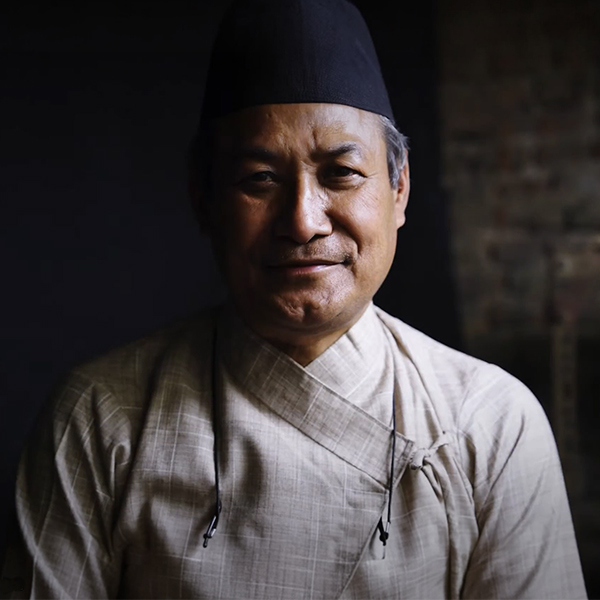
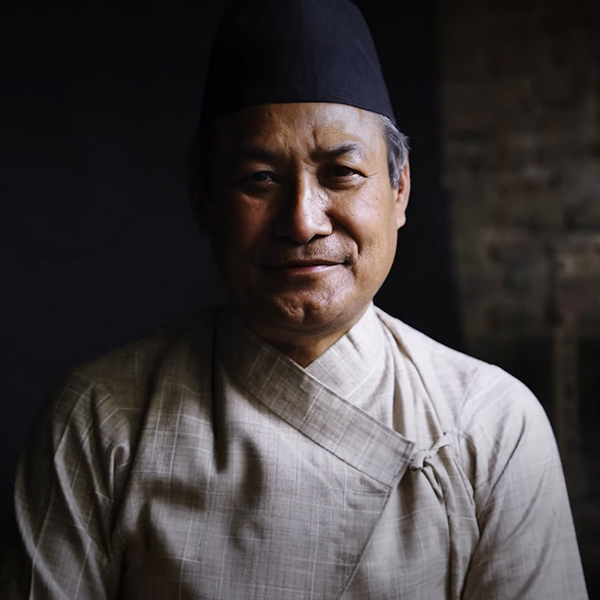
Updates

diff --git a/index1.html b/index1.html
@@ -91,7 +91,7 @@
       <!-- Section Title -->
       <div class="container section-title" data-aos="fade-up">
         <h2>About</h2>
-        <p>Magnam dolores commodi suscipit. Necessitatibus eius consequatur ex aliquid fuga eum quidem. Sit sint consectetur velit. Quisquam quos quisquam cupiditate. Et nemo qui impedit suscipit alias ea. Quia fugiat sit in iste officiis commodi quidem hic quas.</p>
+        <p>I'm Babu Raja Tamrakar a skilled metal craftsman and local resident of Patan, specializing in handcrafted copper and brass products. With years of expertise in traditional metal artistry. I make customized products designs tailored to your specific needs, ensuring high-quality craftsmanship, unique detailing, and durable finishes for both decorative and functional purposes. </p>
       </div><!-- End Section Title -->
 
       <div class="container" data-aos="fade-up" data-aos-delay="100">
@@ -102,10 +102,10 @@
           </div>
           <div class="col-lg-8 content">
             <h2>Designer &amp; Coppersmith.</h2>
-            <p class="fst-italic py-3">
+            <!-- <p class="fst-italic py-3">
               Lorem ipsum dolor sit amet, consectetur adipiscing elit, sed do eiusmod tempor incididunt ut labore et dolore
               magna aliqua.
-            </p>
+            </p> -->
             <div class="row">
               <div class="col-lg-6">
                 <ul>
@@ -122,8 +122,7 @@
               </div>
             </div>
             <p class="py-3">
-              Officiis eligendi itaque labore et dolorum mollitia officiis optio vero. Quisquam sunt adipisci omnis et ut. Nulla accusantium dolor incidunt officia tempore. Et eius omnis.
-              Cupiditate ut dicta maxime officiis quidem quia. Sed et consectetur qui quia repellendus itaque neque.
+              In recent years, I have collaborated with numerous brands and companies, delivering premium handcrafted copper and brass products customized to meet their unique design needs and quality standards. My work focuses on traditional craftsmanship, precision detailing, and durable metal artistry suitable for corporate, decorative, and commercial purposes.
             </p>
           </div>
         </div>
@@ -422,13 +421,12 @@
     </section><!-- /Services Section -->
 
     <!-- Testimonials Section -->
-    <section id="testimonials" class="testimonials section light-background">
+    <!-- <section id="testimonials" class="testimonials section light-background">
 
-      <!-- Section Title -->
       <div class="container section-title" data-aos="fade-up">
         <h2>Testimonials</h2>
         <p>Necessitatibus eius consequatur ex aliquid fuga eum quidem sint consectetur velit</p>
-      </div><!-- End Section Title -->
+      </div>
 
       <div class="container" data-aos="fade-up" data-aos-delay="100">
 
@@ -471,59 +469,7 @@
                 <h3>Saul Goodman</h3>
                 <h4>Ceo &amp; Founder</h4>
               </div>
-            </div><!-- End testimonial item -->
-
-            <div class="swiper-slide">
-              <div class="testimonial-item">
-                <p>
-                  <i class="bi bi-quote quote-icon-left"></i>
-                  <span>Export tempor illum tamen malis malis eram quae irure esse labore quem cillum quid malis quorum velit fore eram velit sunt aliqua noster fugiat irure amet legam anim culpa.</span>
-                  <i class="bi bi-quote quote-icon-right"></i>
-                </p>
-                <img src="assets/img/testimonials/testimonials-2.jpg" class="testimonial-img" alt="">
-                <h3>Sara Wilsson</h3>
-                <h4>Designer</h4>
-              </div>
-            </div><!-- End testimonial item -->
-
-            <div class="swiper-slide">
-              <div class="testimonial-item">
-                <p>
-                  <i class="bi bi-quote quote-icon-left"></i>
-                  <span>Enim nisi quem export duis labore cillum quae magna enim sint quorum nulla quem veniam duis minim tempor labore quem eram duis noster aute amet eram fore quis sint minim.</span>
-                  <i class="bi bi-quote quote-icon-right"></i>
-                </p>
-                <img src="assets/img/testimonials/testimonials-3.jpg" class="testimonial-img" alt="">
-                <h3>Jena Karlis</h3>
-                <h4>Store Owner</h4>
-              </div>
-            </div><!-- End testimonial item -->
-
-            <div class="swiper-slide">
-              <div class="testimonial-item">
-                <p>
-                  <i class="bi bi-quote quote-icon-left"></i>
-                  <span>Fugiat enim eram quae cillum dolore dolor amet nulla culpa multos export minim fugiat dolor enim duis veniam ipsum anim magna sunt elit fore quem dolore labore illum veniam.</span>
-                  <i class="bi bi-quote quote-icon-right"></i>
-                </p>
-                <img src="assets/img/testimonials/testimonials-4.jpg" class="testimonial-img" alt="">
-                <h3>Matt Brandon</h3>
-                <h4>Freelancer</h4>
-              </div>
-            </div><!-- End testimonial item -->
-
-            <div class="swiper-slide">
-              <div class="testimonial-item">
-                <p>
-                  <i class="bi bi-quote quote-icon-left"></i>
-                  <span>Quis quorum aliqua sint quem legam fore sunt eram irure aliqua veniam tempor noster veniam sunt culpa nulla illum cillum fugiat legam esse veniam culpa fore nisi cillum quid.</span>
-                  <i class="bi bi-quote quote-icon-right"></i>
-                </p>
-                <img src="assets/img/testimonials/testimonials-5.jpg" class="testimonial-img" alt="">
-                <h3>John Larson</h3>
-                <h4>Entrepreneur</h4>
-              </div>
-            </div><!-- End testimonial item -->
+            </div>
 
           </div>
           <div class="swiper-pagination"></div>
@@ -531,7 +477,8 @@
 
       </div>
 
-    </section><!-- /Testimonials Section -->
+    </section> -->
+    <!-- /Testimonials Section -->
 
     <!-- Contact Section -->
     <section id="contact" class="contact section">

diff --git a/portfolio-details.html b/portfolio-details.html
@@ -1,15 +1,12 @@
-<!DOCTYPE html>
-<html lang="en">
-
 <head>
   <meta charset="utf-8">
   <meta content="width=device-width, initial-scale=1.0" name="viewport">
-  <title>Portfolio Details - iPortfolio Bootstrap Template</title>
+  <title>Babu Raja Tamrakar</title>
   <meta content="" name="description">
-  <meta content="" name="keywords">
+  <meta name="keywords" content="babumetalcrafts, baburajatamrakar, Babu Metal Crafts, Babu Raja Tamrakar, Babu Metal Crafts Patan, Coppersmith from patan, Coppersmith">
 
   <!-- Favicons -->
-  <link href="assets/img/favicon.png" rel="icon">
+  <link href="assets/img/b-logo.png" rel="icon">
   <link href="assets/img/apple-touch-icon.png" rel="apple-touch-icon">
 
   <!-- Fonts -->
@@ -36,53 +33,35 @@
   ======================================================== -->
 </head>
 
-<body class="portfolio-details-page">
+<body class="index-page">
 
   <header id="header" class="header dark-background d-flex flex-column">
     <i class="header-toggle d-xl-none bi bi-list"></i>
 
     <div class="profile-img">
-      <img src="assets/img/my-profile-img.jpg" alt="" class="img-fluid rounded-circle">
+      <img src="assets/img/profile img.jpg" alt="" class="img-fluid rounded-circle">
     </div>
 
-    <a href="index.html" class="logo d-flex align-items-center justify-content-center">
+    <a href="./index" class="logo d-flex align-items-center justify-content-center">
       <!-- Uncomment the line below if you also wish to use an image logo -->
       <!-- <img src="assets/img/logo.png" alt=""> -->
-      <h1 class="sitename">Alex Smith</h1>
+      <h1 class="sitename">Babu Raja Tamrakar</h1>
     </a>
 
     <div class="social-links text-center">
-      <a href="#" class="twitter"><i class="bi bi-twitter-x"></i></a>
-      <a href="#" class="facebook"><i class="bi bi-facebook"></i></a>
-      <a href="#" class="instagram"><i class="bi bi-instagram"></i></a>
-      <a href="#" class="google-plus"><i class="bi bi-skype"></i></a>
+      <a href="https://www.facebook.com/profile.php?id=61587311785832" class="facebook"><i class="bi bi-facebook"></i></a>
+      <a href="https://www.instagram.com/babu_metal_crafts" class="instagram"><i class="bi bi-instagram"></i></a>
+      <a href="https://www.tiktok.com/@babu.metal.crafts" class="tiktok"><i class="bi bi-tiktok"></i></a>
       <a href="#" class="linkedin"><i class="bi bi-linkedin"></i></a>
+      <a href="#" class="whatsapp"><i class="bi bi-whatsapp"></i></a>
     </div>
 
     <nav id="navmenu" class="navmenu">
       <ul>
-        <li><a href="#hero"><i class="bi bi-house navicon"></i>Home</a></li>
+        <li><a href="#hero" class="active"><i class="bi bi-house navicon"></i>Home</a></li>
         <li><a href="#about"><i class="bi bi-person navicon"></i> About</a></li>
-        <li><a href="#resume"><i class="bi bi-file-earmark-text navicon"></i> Resume</a></li>
         <li><a href="#portfolio"><i class="bi bi-images navicon"></i> Portfolio</a></li>
         <li><a href="#services"><i class="bi bi-hdd-stack navicon"></i> Services</a></li>
-        <li class="dropdown"><a href="#"><i class="bi bi-menu-button navicon"></i> <span>Dropdown</span> <i class="bi bi-chevron-down toggle-dropdown"></i></a>
-          <ul>
-            <li><a href="#">Dropdown 1</a></li>
-            <li class="dropdown"><a href="#"><span>Deep Dropdown</span> <i class="bi bi-chevron-down toggle-dropdown"></i></a>
-              <ul>
-                <li><a href="#">Deep Dropdown 1</a></li>
-                <li><a href="#">Deep Dropdown 2</a></li>
-                <li><a href="#">Deep Dropdown 3</a></li>
-                <li><a href="#">Deep Dropdown 4</a></li>
-                <li><a href="#">Deep Dropdown 5</a></li>
-              </ul>
-            </li>
-            <li><a href="#">Dropdown 2</a></li>
-            <li><a href="#">Dropdown 3</a></li>
-            <li><a href="#">Dropdown 4</a></li>
-          </ul>
-        </li>
         <li><a href="#contact"><i class="bi bi-envelope navicon"></i> Contact</a></li>
       </ul>
     </nav>
@@ -183,14 +162,16 @@
 
     <div class="container">
       <div class="copyright text-center ">
-        <p>© <span>Copyright</span> <strong class="px-1 sitename">iPortfolio</strong> <span>All Rights Reserved</span></p>
+        <p>© <span>Copyright</span>
+          <script> document.write(new Date().getFullYear()); </script>  
+        <strong class="px-1 sitename">Babu Raja Tamrakar.</strong> <span>| All Rights Reserved</span></p>
       </div>
       <div class="credits">
         <!-- All the links in the footer should remain intact. -->
         <!-- You can delete the links only if you've purchased the pro version. -->
         <!-- Licensing information: https://bootstrapmade.com/license/ -->
         <!-- Purchase the pro version with working PHP/AJAX contact form: [buy-url] -->
-        Designed by <a href="https://bootstrapmade.com/">BootstrapMade</a> Distributed by <a href="https://themewagon.com">ThemeWagon</a>
+        Designed by <a href="https://rujaltamrakar.com.np" target="_blank">Rujal Tamrakar</a> 
       </div>
     </div>
 

diff --git a/service-details.html b/service-details.html
@@ -1,15 +1,12 @@
-<!DOCTYPE html>
-<html lang="en">
-
 <head>
   <meta charset="utf-8">
   <meta content="width=device-width, initial-scale=1.0" name="viewport">
-  <title>Service Details - iPortfolio Bootstrap Template</title>
+  <title>Babu Raja Tamrakar</title>
   <meta content="" name="description">
-  <meta content="" name="keywords">
+  <meta name="keywords" content="babumetalcrafts, baburajatamrakar, Babu Metal Crafts, Babu Raja Tamrakar, Babu Metal Crafts Patan, Coppersmith from patan, Coppersmith">
 
   <!-- Favicons -->
-  <link href="assets/img/favicon.png" rel="icon">
+  <link href="assets/img/b-logo.png" rel="icon">
   <link href="assets/img/apple-touch-icon.png" rel="apple-touch-icon">
 
   <!-- Fonts -->
@@ -36,53 +33,35 @@
   ======================================================== -->
 </head>
 
-<body class="service-details-page">
+<body class="index-page">
 
   <header id="header" class="header dark-background d-flex flex-column">
     <i class="header-toggle d-xl-none bi bi-list"></i>
 
     <div class="profile-img">
-      <img src="assets/img/my-profile-img.jpg" alt="" class="img-fluid rounded-circle">
+      <img src="assets/img/profile img.jpg" alt="" class="img-fluid rounded-circle">
     </div>
 
-    <a href="index.html" class="logo d-flex align-items-center justify-content-center">
+    <a href="./index" class="logo d-flex align-items-center justify-content-center">
       <!-- Uncomment the line below if you also wish to use an image logo -->
       <!-- <img src="assets/img/logo.png" alt=""> -->
-      <h1 class="sitename">Alex Smith</h1>
+      <h1 class="sitename">Babu Raja Tamrakar</h1>
     </a>
 
     <div class="social-links text-center">
-      <a href="#" class="twitter"><i class="bi bi-twitter-x"></i></a>
-      <a href="#" class="facebook"><i class="bi bi-facebook"></i></a>
-      <a href="#" class="instagram"><i class="bi bi-instagram"></i></a>
-      <a href="#" class="google-plus"><i class="bi bi-skype"></i></a>
+      <a href="https://www.facebook.com/profile.php?id=61587311785832" class="facebook"><i class="bi bi-facebook"></i></a>
+      <a href="https://www.instagram.com/babu_metal_crafts" class="instagram"><i class="bi bi-instagram"></i></a>
+      <a href="https://www.tiktok.com/@babu.metal.crafts" class="tiktok"><i class="bi bi-tiktok"></i></a>
       <a href="#" class="linkedin"><i class="bi bi-linkedin"></i></a>
+      <a href="#" class="whatsapp"><i class="bi bi-whatsapp"></i></a>
     </div>
 
     <nav id="navmenu" class="navmenu">
       <ul>
-        <li><a href="#hero"><i class="bi bi-house navicon"></i>Home</a></li>
+        <li><a href="#hero" class="active"><i class="bi bi-house navicon"></i>Home</a></li>
         <li><a href="#about"><i class="bi bi-person navicon"></i> About</a></li>
-        <li><a href="#resume"><i class="bi bi-file-earmark-text navicon"></i> Resume</a></li>
         <li><a href="#portfolio"><i class="bi bi-images navicon"></i> Portfolio</a></li>
         <li><a href="#services"><i class="bi bi-hdd-stack navicon"></i> Services</a></li>
-        <li class="dropdown"><a href="#"><i class="bi bi-menu-button navicon"></i> <span>Dropdown</span> <i class="bi bi-chevron-down toggle-dropdown"></i></a>
-          <ul>
-            <li><a href="#">Dropdown 1</a></li>
-            <li class="dropdown"><a href="#"><span>Deep Dropdown</span> <i class="bi bi-chevron-down toggle-dropdown"></i></a>
-              <ul>
-                <li><a href="#">Deep Dropdown 1</a></li>
-                <li><a href="#">Deep Dropdown 2</a></li>
-                <li><a href="#">Deep Dropdown 3</a></li>
-                <li><a href="#">Deep Dropdown 4</a></li>
-                <li><a href="#">Deep Dropdown 5</a></li>
-              </ul>
-            </li>
-            <li><a href="#">Dropdown 2</a></li>
-            <li><a href="#">Dropdown 3</a></li>
-            <li><a href="#">Dropdown 4</a></li>
-          </ul>
-        </li>
         <li><a href="#contact"><i class="bi bi-envelope navicon"></i> Contact</a></li>
       </ul>
     </nav>
@@ -155,14 +134,16 @@
 
     <div class="container">
       <div class="copyright text-center ">
-        <p>© <span>Copyright</span> <strong class="px-1 sitename">iPortfolio</strong> <span>All Rights Reserved</span></p>
+        <p>© <span>Copyright</span>
+          <script> document.write(new Date().getFullYear()); </script>  
+        <strong class="px-1 sitename">Babu Raja Tamrakar.</strong> <span>| All Rights Reserved</span></p>
       </div>
       <div class="credits">
         <!-- All the links in the footer should remain intact. -->
         <!-- You can delete the links only if you've purchased the pro version. -->
         <!-- Licensing information: https://bootstrapmade.com/license/ -->
         <!-- Purchase the pro version with working PHP/AJAX contact form: [buy-url] -->
-        Designed by <a href="https://bootstrapmade.com/">BootstrapMade</a> Distributed by <a href="https://themewagon.com">ThemeWagon</a>
+        Designed by <a href="https://rujaltamrakar.com.np" target="_blank">Rujal Tamrakar</a> 
       </div>
     </div>
 
